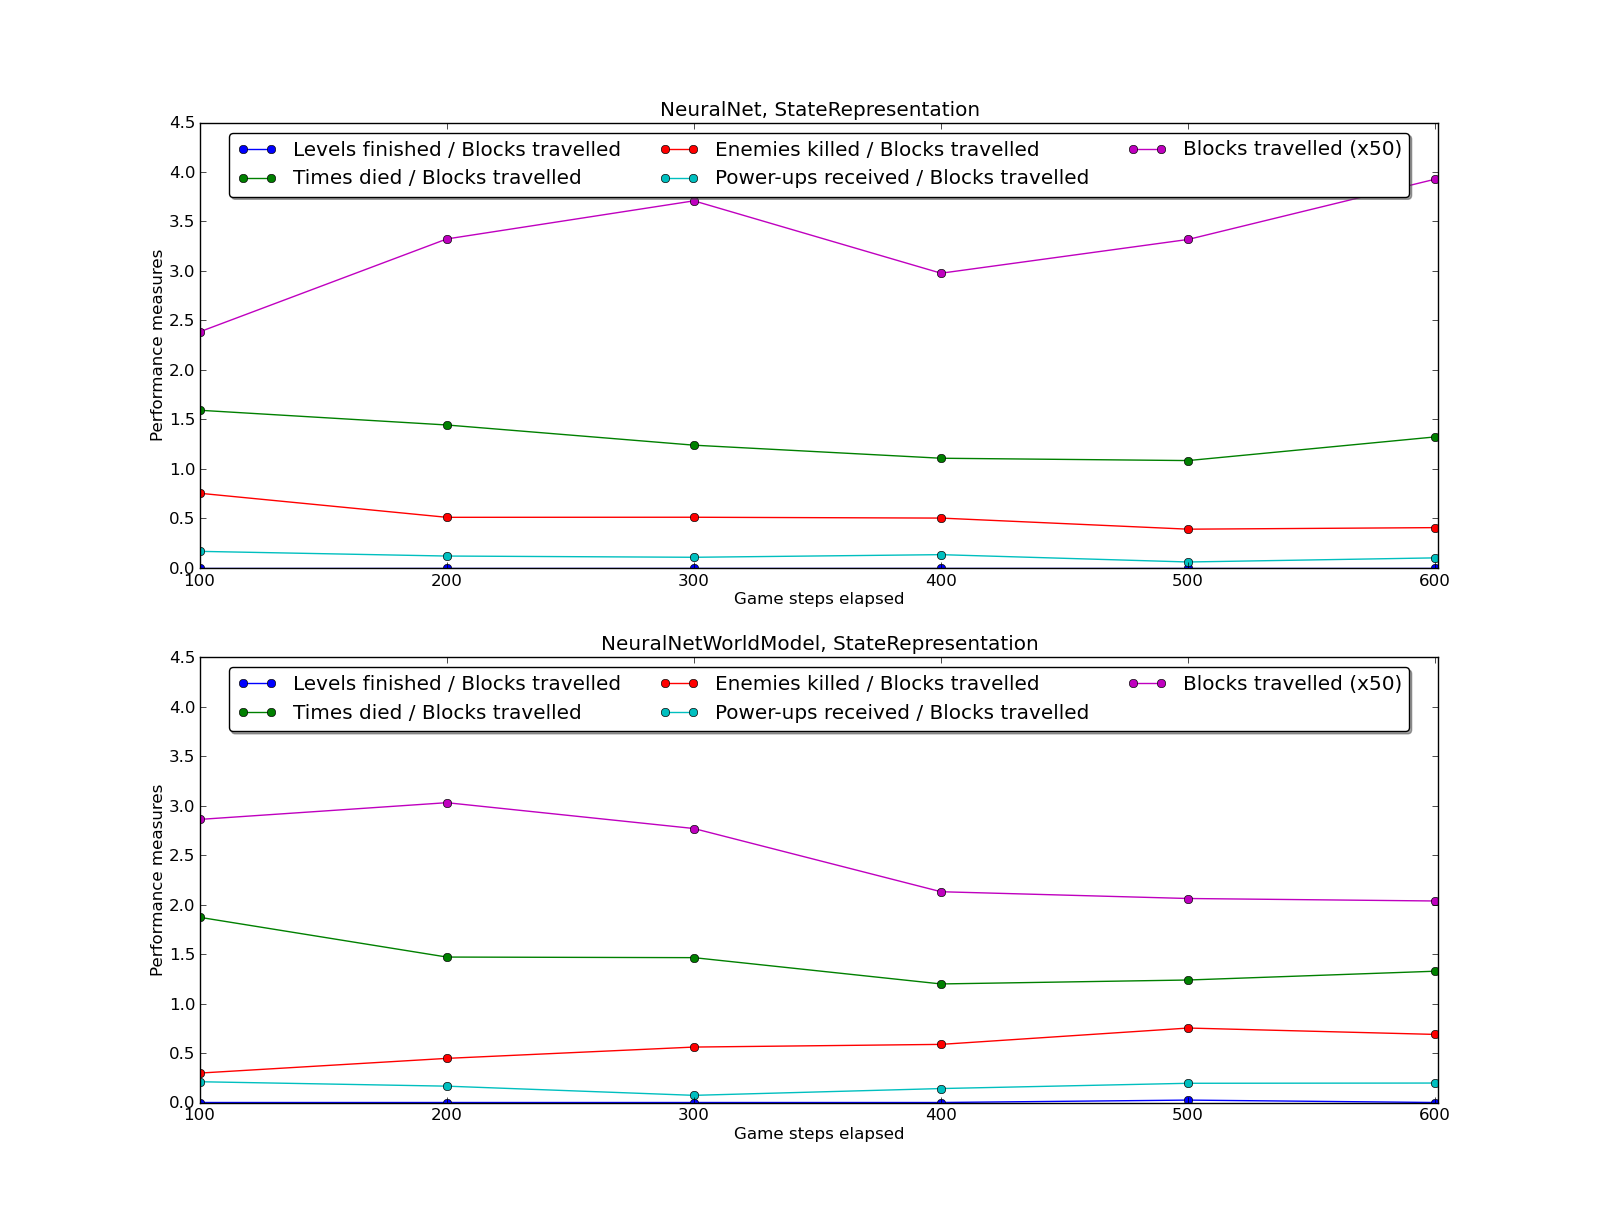
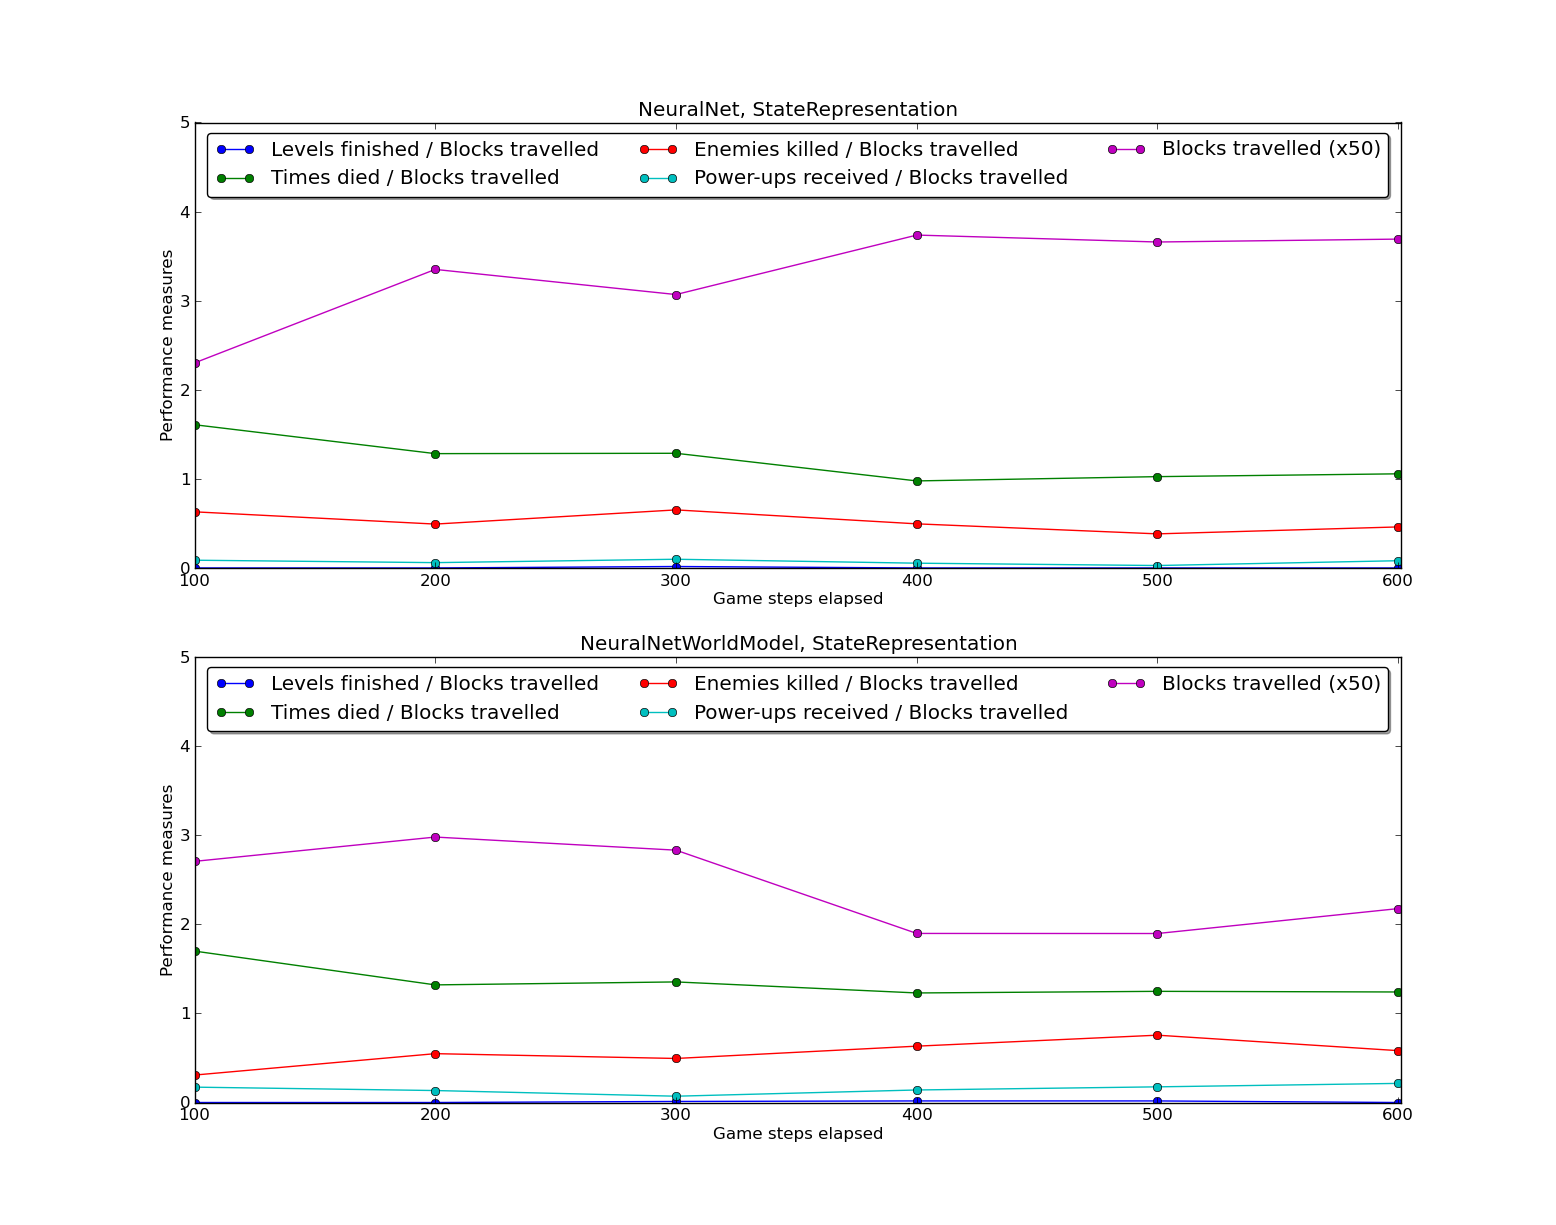
Ik wil een koe.

diff --git a/tamer-share/src/ataa2014/ParamsATAA.java b/tamer-share/src/ataa2014/ParamsATAA.java
@@ -17,12 +17,12 @@ public class ParamsATAA {
 	public static String personNameA = "josago_";
 	public static String personName  = ParamsATAA.personNameA + "FINAL2_" + System.nanoTime();
 	
-	public static int[] seeds = {7137, 6866, 3300, 8489, 5551};
+	public static int[] seeds = {7812, 82, 7020, 2273, 1689};
 	
 	//If the ATAA_Exp boolean is set to true the level difficulty below is used
 	//to generate the levels
 	//For the experiment set the level difficulty to 0 or 2
-	public static int level_difficulty = 1;
+	public static int level_difficulty = 2;
 	
 	//Set to true when running an experiment
 	public static boolean ATAA_Exp = true;

diff --git a/tamer-share/src/ataa2014_expResults/plot_results.py b/tamer-share/src/ataa2014_expResults/plot_results.py
@@ -4,7 +4,7 @@ import os, re
 
 PLOT_REL_SPEED        = True
 NUM_STEPS_PER_SAMPLE  = 100
-MAX_Y                 = 4.5
+MAX_Y                 = 5.0
 SPEED_MULT            = 50
 
 NUM_LEVELS_FINISHED    = 0
@@ -124,5 +124,5 @@ def load_file(filename):
 # Code to be exectued:
 
 #plot_results("NeuralNet", "StateRepresentation", "day20")
-plot_all("lvl_1")
+plot_all("lvl_2_.*FINAL2_")
 #results_model_param('LYDIA')
